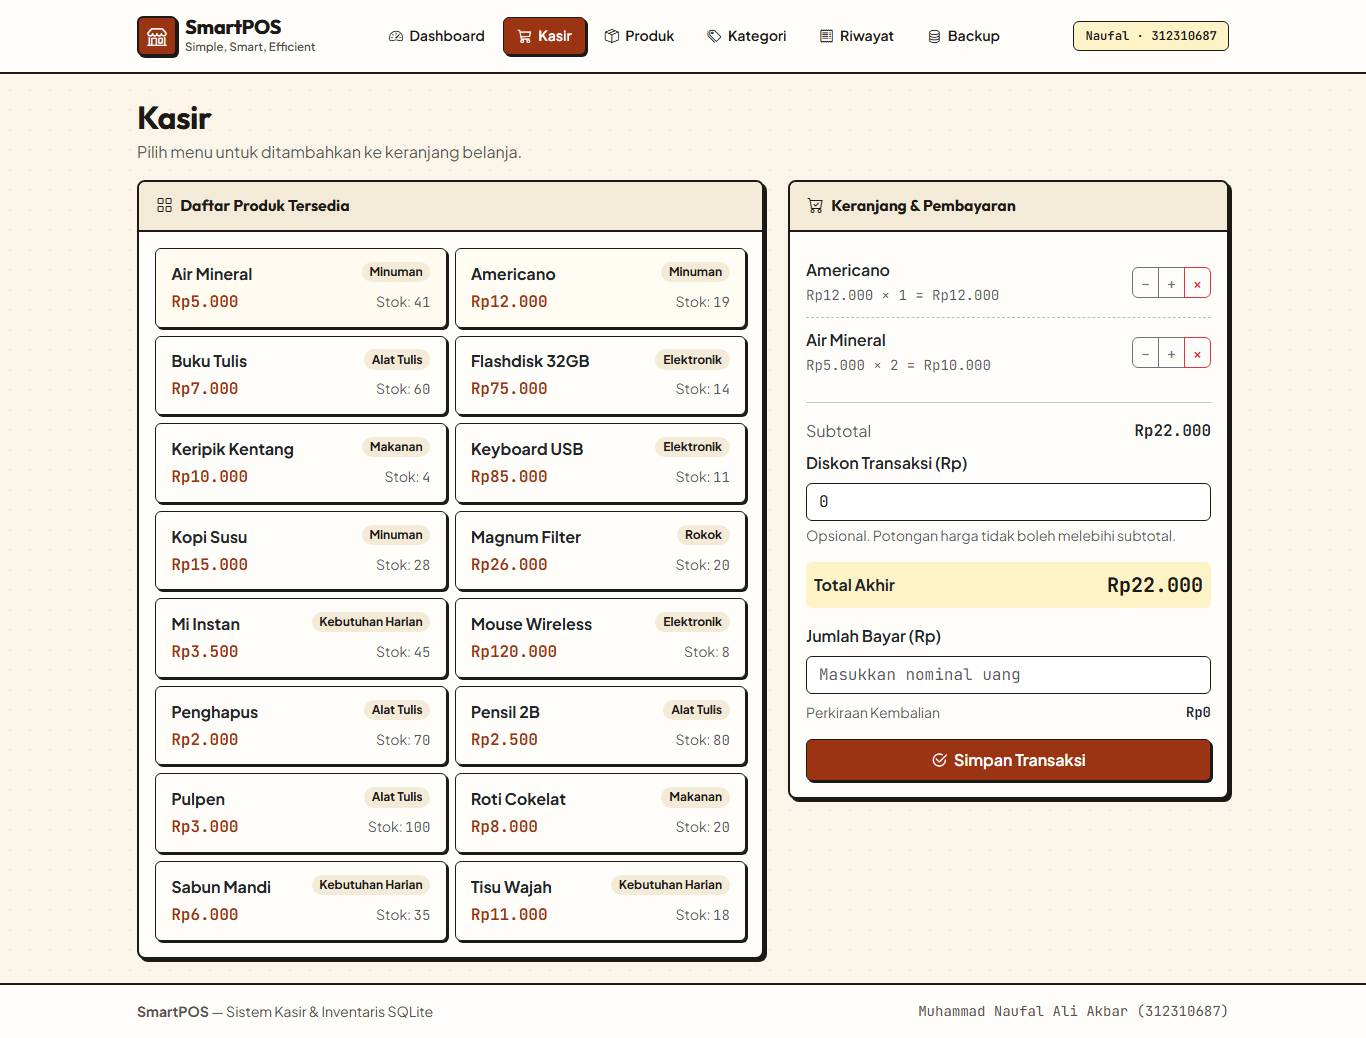
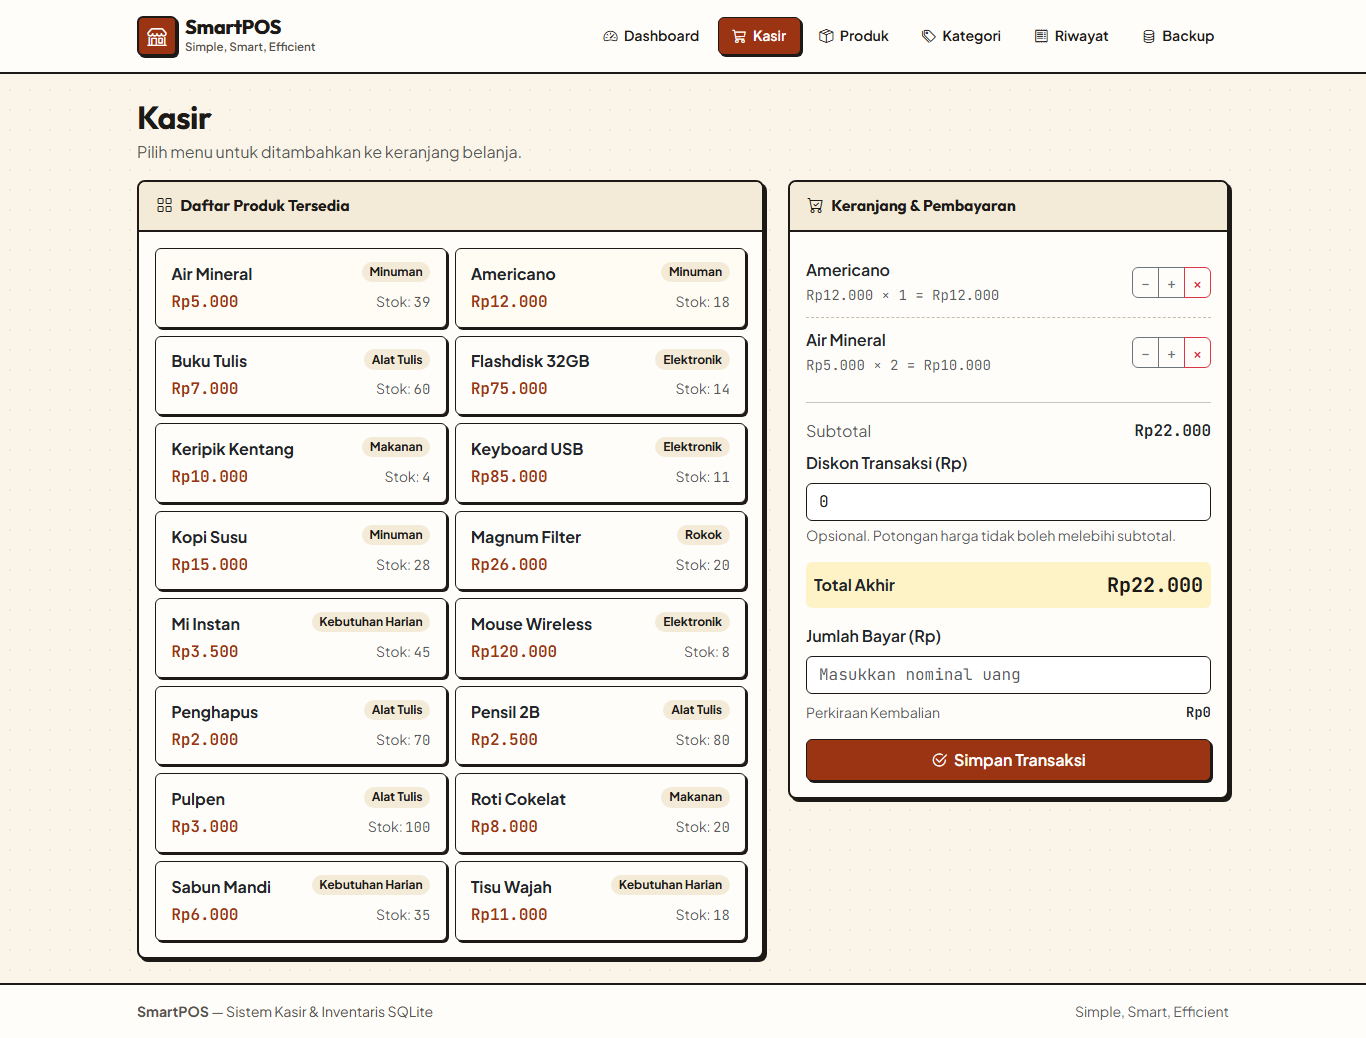
Update README

diff --git a/templates/base.html b/templates/base.html
@@ -43,10 +43,6 @@
                     <i class="bi bi-database"></i> Backup
                 </a>
             </nav>
-
-            <div class="dev-stamp font-mono-num">
-                Naufal &middot; 312310687
-            </div>
         </div>
     </header>
 
@@ -69,7 +65,7 @@
     <footer class="site-footer no-print py-3 mt-auto">
         <div class="container-xl px-3 px-md-4 d-flex flex-wrap justify-content-between align-items-center gap-2 small">
             <span><strong>SmartPOS</strong> &mdash; Sistem Kasir &amp; Inventaris SQLite</span>
-            <span class="font-mono-num">Muhammad Naufal Ali Akbar (312310687)</span>
+            <span class="text-muted">Simple, Smart, Efficient</span>
         </div>
     </footer>
 </div>

diff --git a/templates/transaksi_detail.html b/templates/transaksi_detail.html
@@ -25,7 +25,6 @@
             </div>
             <div class="text-end">
                 <span class="badge rounded-pill" style="background-color: var(--cr-sand); color: var(--cr-roast);">Lunas</span>
-                <div class="small text-muted mt-1">Kasir: Naufal (312310687)</div>
             </div>
         </div>
 

diff --git a/README.md b/README.md
@@ -2,11 +2,13 @@
 
 Aplikasi Point of Sale (POS) berbasis web untuk manajemen kasir, inventaris produk, riwayat transaksi, ekspor laporan Excel, dan pencadangan database menggunakan **Python**, **Flask**, dan **SQLite (`sqlite3`)** dengan tema visual **Warm Tone**.
 
-## Identitas Pengembang
+## Identitas Pengembang & Anggota Kelompok
 - **Nama Aplikasi:** SmartPOS (Warm Edition)
-- **Nama:** Muhammad Naufal Ali Akbar
-- **NIM:** 312310687
 - **Mata Kuliah:** Automation System — Pengembangan SmartPOS
+- **Anggota Kelompok:**
+  1. **Muhammad Naufal Ali Akbar** — NIM `312310687`
+  2. **Muhammad Alghofiqi** — NIM `312310207`
+  3. **Astian Handal Cahya Putra** — NIM `312310527`
 
 ---
 
@@ -129,5 +131,7 @@ Hasil lengkap pengujian tercatat di [docs/bukti_pengujian.md](docs/bukti_penguji
 
 ---
 
-## Pembagian Tugas
-- **Individu:** Muhammad Naufal Ali Akbar (NIM 312310687) — Perancangan skema database, pengembangan backend Flask & SQLite, perancangan antarmuka *Warm Tone* SmartPOS, pengujian 14 skenario `pytest` + Playwright, serta penyusunan dokumentasi.
+## Pembagian Tugas Anggota Kelompok
+- **Muhammad Naufal Ali Akbar (312310687):** Pengembangan backend Flask, logika transaksi atomik & validasi diskon server-side, serta pengujian otomatis 14 skenario (`pytest` + Playwright).
+- **Muhammad Alghofiqi (312310207):** Perancangan antarmuka UI/UX (*Warm Paper Tactile*) dan pengembangan fitur Export Excel (`Rekap per Produk`).
+- **Astian Handal Cahya Putra (312310527):** Perancangan skema & migrasi database SQLite (`schema.sql`, `init_db.py`), fitur Backup Database, serta penyusunan dokumentasi dan laporan.
